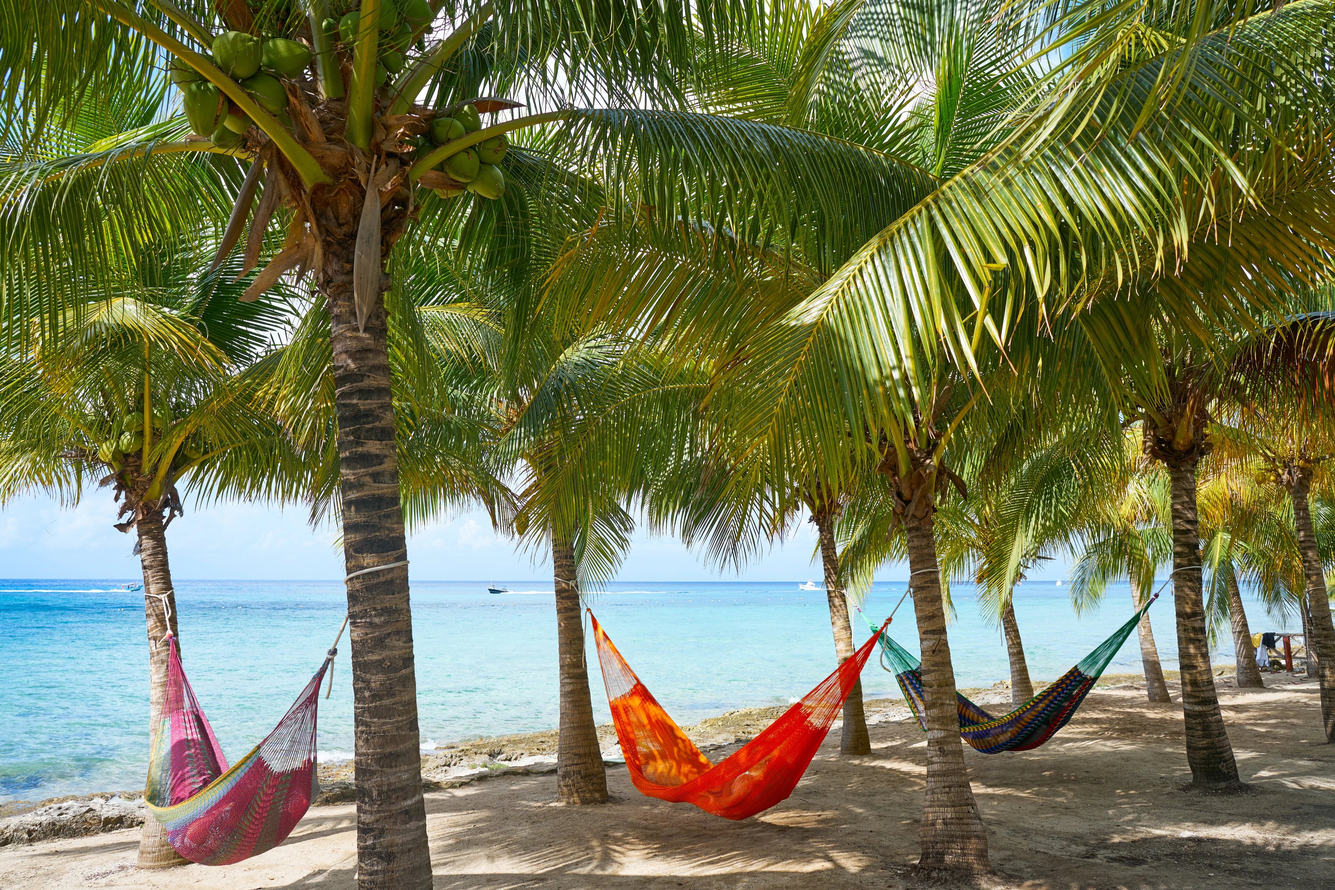
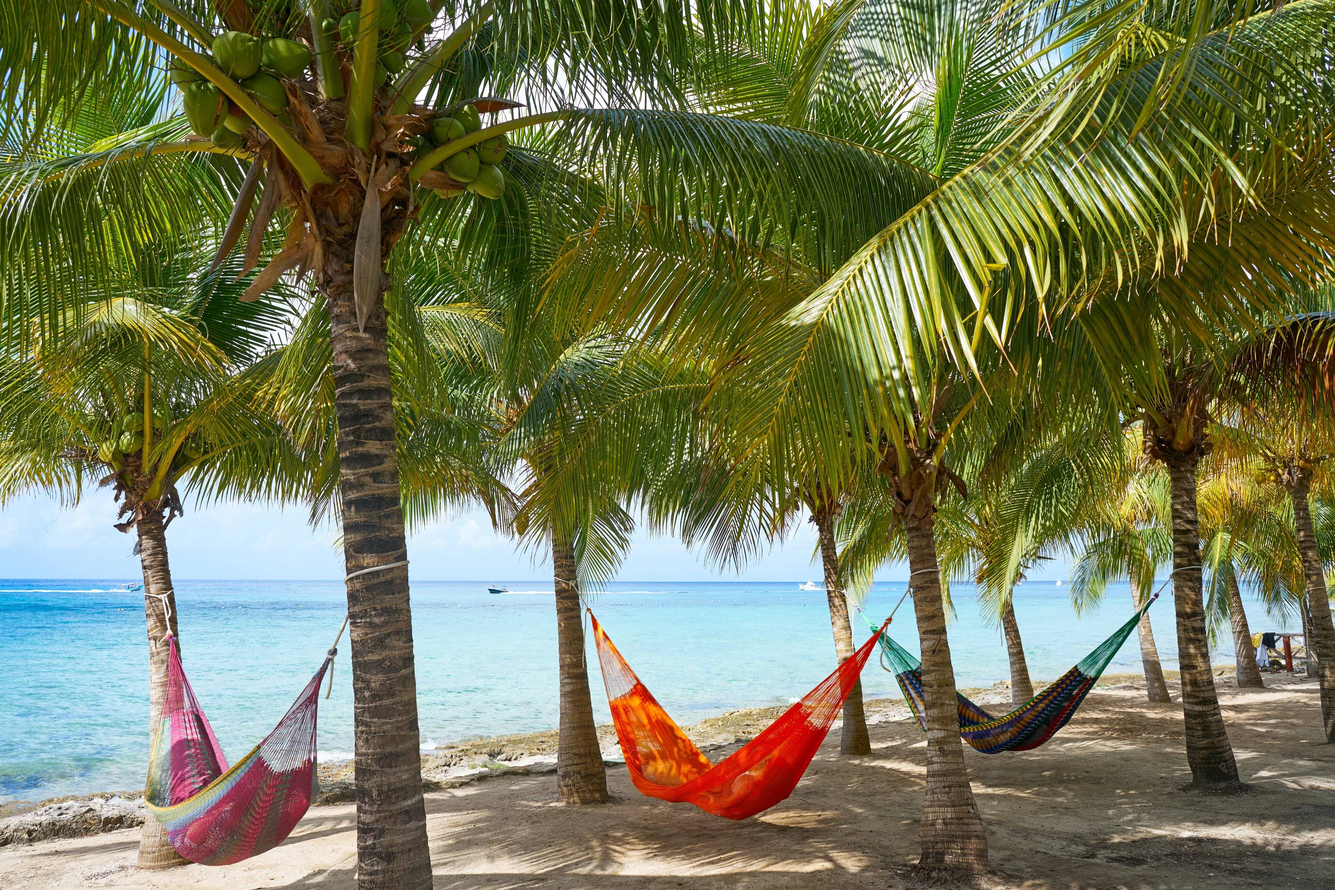
finish

diff --git a/index.html b/index.html
@@ -79,7 +79,7 @@
       id="main"
       class="parallax-window"
       data-parallax="scroll"
-      data-image-src="assets/image/parallax/mexico5.jpg"
+      data-image-src="assets/image/parallax/mexico41.jpg"
     >
       <div class="container">
         <div class="row">
@@ -196,7 +196,7 @@
 
               <p>
                 Мы индивидуально подберём наилучший тур
-                <strong class="tour">в Мексикку</strong>, подходящий Вашим
+                <strong class="tour">в Мексику</strong>, подходящий Вашим
                 требованиям, <strong>БЕСПЛАТНО</strong>.
               </p>
 
@@ -228,7 +228,7 @@
                 data-toggle="modal"
                 data-target="#tourModal"
               >
-                <img src="assets/image/tours/zanz10.jpg" alt="zanz10" />
+                <img src="assets/image/tours/mexico36.jpg" alt="mexico36" />
                 <div class="block-tours-route">
                   <h4>Рекомендуемые отели:</h4>
                   <p><i class="fas fa-angle-double-right"></i>RIU Palace Las Americas</p>
@@ -268,7 +268,7 @@
                 data-toggle="modal"
                 data-target="#tourModal"
               >
-                <img src="assets/image/tours/zanz7.jpg" alt="zanz7" />
+                <img src="assets/image/tours/mexico34.jpg" alt="mexico34" />
                 <div class="block-tours-route">
                   <h4>Рекомендуемые отели:</h4>
                   <p>
@@ -288,7 +288,7 @@
               <div
                 class="block-tours-description d-flex justify-content-between"
               >
-                <p>
+                <p class="correction">
                   Ривьера Майя, Пуэрто-Авентурас
                   <strong>&ndash;&nbsp;11&nbsp;ночей</strong>
                 </p>
@@ -312,7 +312,7 @@
                 data-toggle="modal"
                 data-target="#tourModal"
               >
-                <img src="assets/image/tours/zanzibar15.jpg" alt="zanzibar15" />
+                <img src="assets/image/tours/mexico28.jpg" alt="mexico28" />
                 <div class="block-tours-route">
                   <h4>Рекомендуемые отели:</h4>
                   <p>
@@ -332,7 +332,7 @@
               <div
                 class="block-tours-description d-flex justify-content-between"
               >
-                <p>
+                <p class="correction">
                   Ривьера Майя, Плайякар
                   <strong>&ndash;&nbsp;12&nbsp;ночей</strong>
                 </p>
@@ -360,7 +360,7 @@
                 data-toggle="modal"
                 data-target="#tourModal"
               >
-                <img src="assets/image/tours/safari2.jpg" alt="safari2" />
+                <img src="assets/image/tours/mexico21.jpg" alt="mexico21" />
 
                 <div class="block-tours-route">
                   <h4>Рекомендуемые отели:</h4>
@@ -397,7 +397,7 @@
                 data-toggle="modal"
                 data-target="#tourModal"
               >
-                <img src="assets/image/tours/zebras.jpg" alt="zebras" />
+                <img src="assets/image/tours/mexico8.jpg" alt="mexico8" />
                 <div class="block-tours-route">
                   <h4>Рекомендуемые отели:</h4>
                   <p>
@@ -411,7 +411,7 @@
               <div
                 class="block-tours-description d-flex justify-content-between"
               >
-                <p class="correction">
+                <p>
                   Ривьера Майя, Акумаль
                   <strong>&ndash;&nbsp;9&nbsp;ночей</strong>
                 </p>
@@ -438,7 +438,7 @@
                 data-toggle="modal"
                 data-target="#tourModal"
               >
-                <img src="assets/image/tours/zanz.jpg" alt="zanz" />
+                <img src="assets/image/tours/mexico24.jpg" alt="mexico24" />
                 <div class="block-tours-route">
                   <h4>Рекомендуемые отели:</h4>
                   <p><i class="fas fa-angle-double-right"></i>Fairmont Mayacoba</p>
@@ -454,7 +454,7 @@
               <div
                 class="block-tours-description d-flex justify-content-between"
               >
-                <p>
+                <p class="correction">
                   Плайя-дель-Кармен, Майякоба
                   <strong>&ndash;&nbsp;11&nbsp;ночей</strong>
                 </p>
@@ -549,7 +549,7 @@
       id="free_pick"
       class="parallax-window"
       data-parallax="scroll"
-      data-image-src="assets/image/parallax/zanzibar31.jpg"
+      data-image-src="assets/image/parallax/mexico2.jpg"
     >
       <div class="container">
         <div class="row">

diff --git a/thanks.html b/thanks.html
@@ -2,7 +2,7 @@
 <html lang="ru">
   <head>
     <meta charset="UTF-8" />
-    <title>Спасибо &ndash; Занзибар &ndash; Viva Travel&reg;</title>
+    <title>Спасибо &ndash; Мексика &ndash; Viva Travel&reg;</title>
     <meta
       name="viewport"
       content="width=device-width,initial-scale=1,minimum-scale=0.3,maximum-scale=1.0,user-scalable=yes"
@@ -79,7 +79,7 @@
       id="free_pick"
       class="parallax-window free_pick_response"
       data-parallax="scroll"
-      data-image-src="assets/image/parallax/936303.jpg"
+      data-image-src="assets/image/parallax/mexico41.jpg"
     >
       <div class="container">
         <div class="row">

diff --git a/request.php b/request.php
@@ -12,7 +12,7 @@ $subject = 'Viva Landing: Заявка на тур';
 $headers = "From: $from\r\n";
 $headers .= "Content-type: text/html; charset=\"utf-8\"";
 
-$message = '<div style="color: #e76915; font-weight: bold;">Была оставлена заявка на LP "о.Занзибар" в ' . date('G:i') . "</div><br>\n\n";
+$message = '<div style="color: #e76915; font-weight: bold;">Была оставлена заявка на LP "Мексика" в ' . date('G:i') . "</div><br>\n\n";
 $message .= '<div><strong>Имя:</strong> ' . htmlspecialchars(trim($_POST['name'] ?? '')) . "</div>\n";
 $message .= '<div><strong>E-mail:</strong> ' . htmlspecialchars(trim($_POST['email'] ?? '')) . "</div>\n";
 $message .= '<div><strong>Телефон:</strong> ' . htmlspecialchars(trim($_POST['phone'] ?? '')) . "</div>\n";
